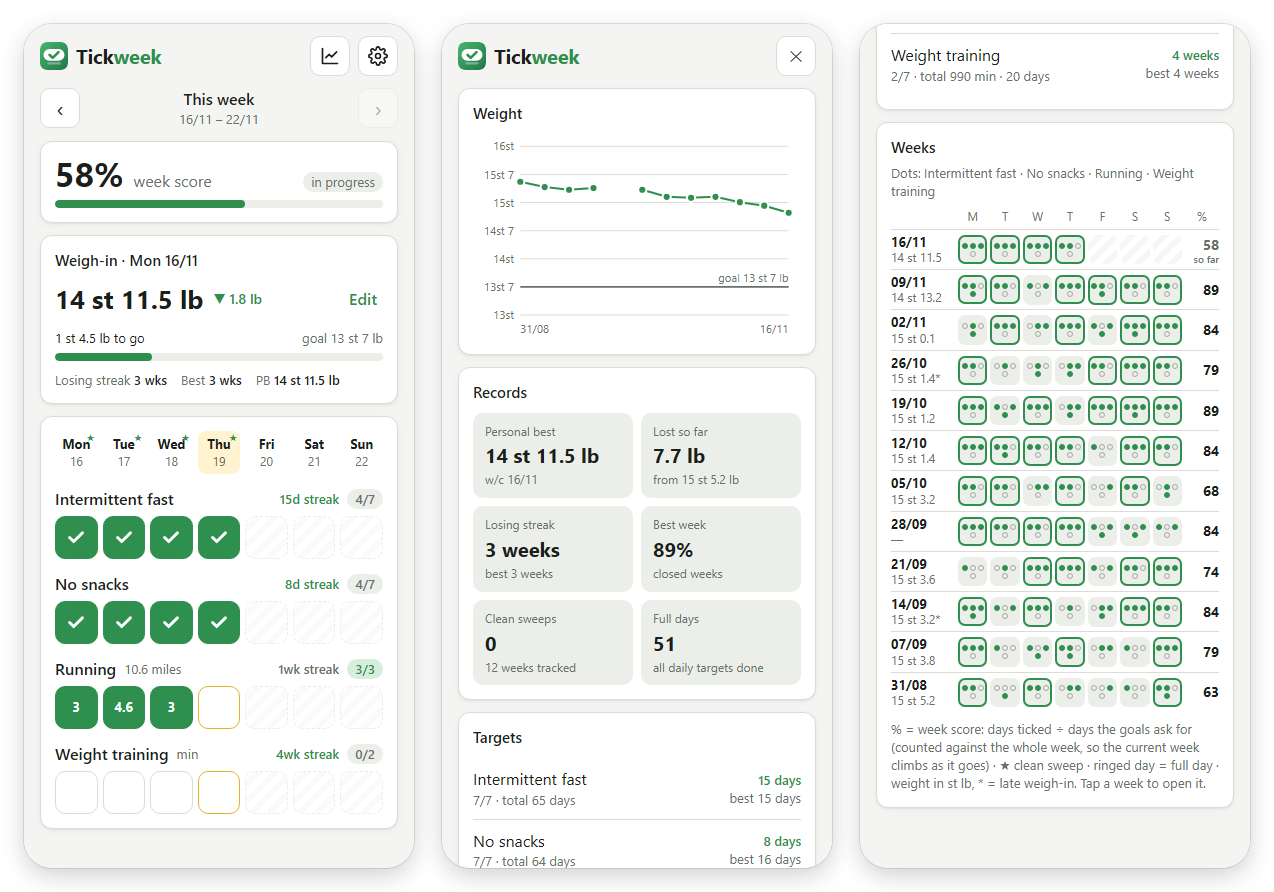
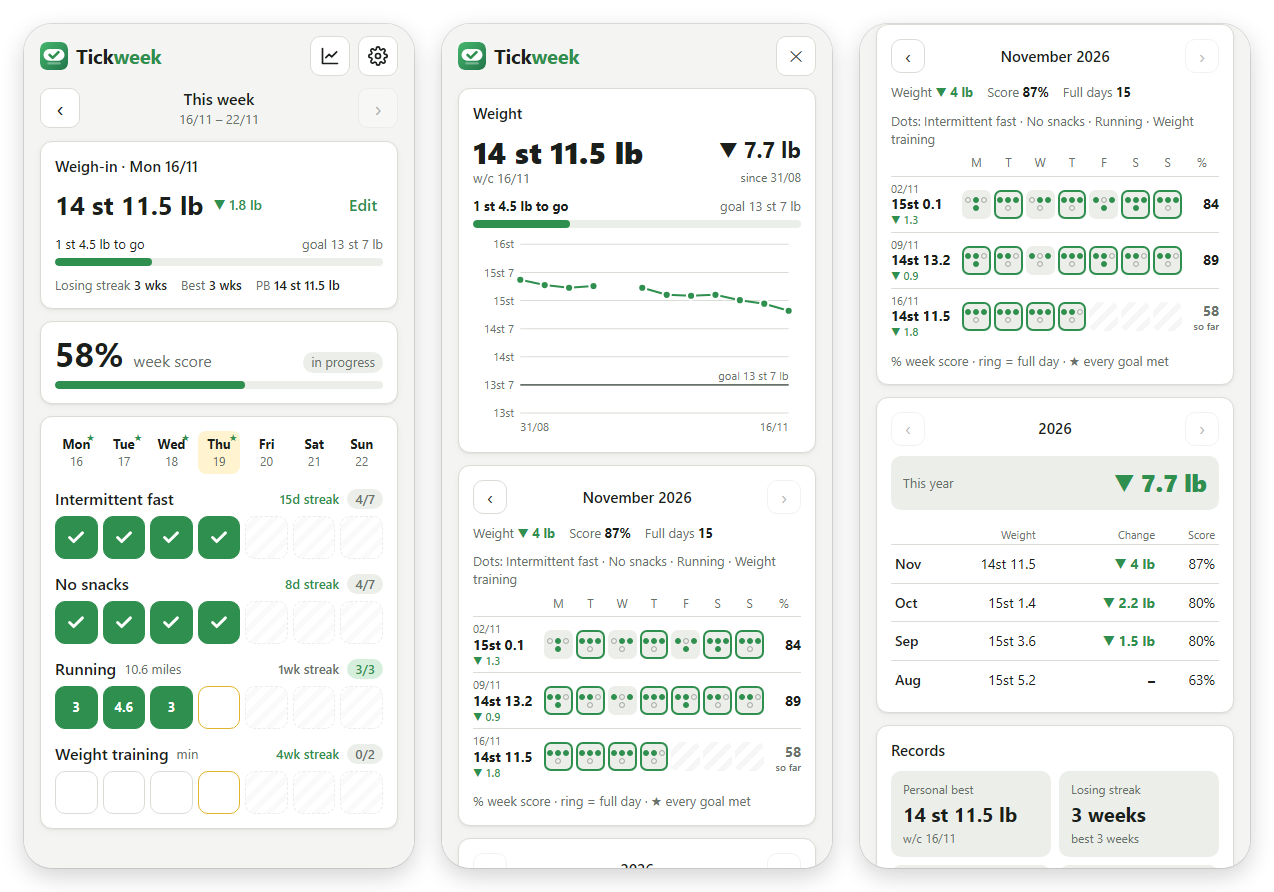
History: weight first, one month at a time, year summary (#7)
- Weight hero (current, change since start, progress to goal) above the chart.
- Week rows (dots per target, full-day rings, score, clean sweep) now show one
  month at a time with a month switcher and a one-line month summary; weigh-in
  bold in each row with its change; short one-line key.
- Year summary: per-month end weight, change and average score.
- This week: weigh-in card before the week score.
- Design spec, changelog and README screenshots updated.

diff --git a/public/js/history.js b/public/js/history.js
@@ -3,16 +3,18 @@ import { KG_PER_LB } from '/js/weight.js';
 
 const $ = (id) => document.getElementById(id);
 const ddmm = (iso) => `${iso.slice(8, 10)}/${iso.slice(5, 7)}`;
-const DOW = ['M', 'T', 'W', 'T', 'F', 'S', 'S'];
 let data;
 
 async function load() {
   try { data = await api('GET', '/api/history'); }
   catch (e) { return toast(e.message); }
+  index();
+  renderHero();
+  renderChart();
+  renderMonth();
+  renderYear();
   renderRecords();
   renderTargets();
-  renderWeeks();
-  renderChart();
   // Content arrives after the browser's own #anchor jump, so redo it once rendered (e.g. /history#weekscard).
   if (location.hash) document.getElementById(location.hash.slice(1))?.scrollIntoView();
 }
@@ -26,16 +28,14 @@ function plural(n, word) { return `${n} ${word}${n === 1 ? '' : 's'}`; }
 function renderRecords() {
   const r = data.records;
   const twoWeighIns = data.weighIns.length >= 2;
-  const lost = twoWeighIns ? r.startKg - r.latestKg : null;
   $('records').replaceChildren(
     tile('Personal best', r.personalBest ? formatStLb(r.personalBest.kg) : null, r.personalBest ? `w/c ${ddmm(r.personalBest.monday)}` : 'no weigh-ins yet'),
-    tile('Lost so far', lost != null ? (lost >= 0 ? formatStLb(lost) : `+${formatStLb(-lost)}`) : null,
-      r.startKg != null ? (twoWeighIns ? `from ${formatStLb(r.startKg)}` : 'needs 2 weigh-ins') : 'needs 2 weigh-ins'),
     tile('Losing streak', twoWeighIns ? plural(data.losing.current, 'week') : null,
       twoWeighIns ? `best ${plural(data.losing.longest, 'week')}` : 'needs 2 weigh-ins'),
     tile('Best week', r.bestScore != null ? `${r.bestScore}%` : null, r.bestScore != null ? 'closed weeks' : 'after week 1'),
-    tile('Clean sweeps', String(r.cleanSweeps), plural(r.weeksTracked, 'week') + ' tracked'),
+    tile('Clean sweeps', String(r.cleanSweeps), 'every goal met'),
     tile('Full days', String(r.fullDays), 'all daily targets done'),
+    tile('Weeks tracked', String(r.weeksTracked), r.weeksTracked ? `since ${ddmm(data.weeks.at(-1).monday)}` : null),
   );
 }
 
@@ -58,34 +58,147 @@ function renderTargets() {
   }) : [h('li', { class: 'muted' }, 'No targets yet.')]));
 }
 
-// ---------- weeks (the paper layout) ----------
-function renderWeeks() {
-  const cur = data.weeks.find((w) => w.current) ?? data.weeks[0];
-  $('legend').textContent = cur?.targets.length ? `Dots: ${cur.targets.map((t) => t.name).join(' · ')}` : '';
+// ---------- date helpers (UTC-midnight ISO dates, like src/dates.js) ----------
+const MONTHS = ['January', 'February', 'March', 'April', 'May', 'June', 'July', 'August', 'September', 'October', 'November', 'December'];
+const addDays = (iso, n) => { const d = new Date(iso + 'T00:00:00Z'); d.setUTCDate(d.getUTCDate() + n); return d.toISOString().slice(0, 10); };
+const mondayOf = (iso) => addDays(iso, -((new Date(iso + 'T00:00:00Z').getUTCDay() + 6) % 7));
+const shiftMonth = (ym, n) => { const [y, m] = ym.split('-').map(Number); return new Date(Date.UTC(y, m - 1 + n, 1)).toISOString().slice(0, 7); };
+const kgDelta = (diff) => (Math.abs(diff) < 0.02 ? '±0' : `${diff < 0 ? '▼' : '▲'} ${formatStLb(Math.abs(diff))}`);
+const deltaClass = (diff) => (Math.abs(diff) < 0.02 ? 'same' : diff < 0 ? 'down' : 'up');
+/** '14st 11.5': compact st/lb for tight columns. */
+const shortStLb = (kg) => formatStLb(kg).replace(' st ', 'st ').replace(' lb', '');
 
-  const head = h('div', { class: 'wrow whead' }, h('div', {}), ...DOW.map((d) => h('div', {}, d)), h('div', {}, '%'));
-  const rows = data.weeks.map((w) => {
+let weekMap = new Map();   // monday → week
+let weighMap = new Map();  // monday → weigh-in
+function index() {
+  weekMap = new Map(data.weeks.map((w) => [w.monday, w]));
+  weighMap = new Map(data.weighIns.map((w) => [w.monday_date, w]));
+}
+/** Last weigh-in strictly before a date. */
+const lastWeighInBefore = (iso) => [...data.weighIns].reverse().find((w) => w.monday_date < iso) ?? null;
+
+/** Weight change over a period: last weigh-in in it vs the last one before it (or its first). */
+function periodStats(inPeriod, startIso) {
+  const ws = data.weighIns.filter((w) => inPeriod(w.monday_date));
+  const base = lastWeighInBefore(startIso) ?? ws[0];
+  const change = ws.length && base && base !== ws.at(-1) ? ws.at(-1).kg - base.kg : null;
+  const closed = data.weeks.filter((w) => inPeriod(w.monday) && !w.current && w.score != null);
+  const score = closed.length ? Math.round(closed.reduce((a, w) => a + w.score, 0) / closed.length) : null;
+  const fullDays = data.weeks.flatMap((w) => w.fullDays).filter(inPeriod).length;
+  return { endKg: ws.at(-1)?.kg ?? null, change, score, fullDays };
+}
+
+// ---------- weight hero ----------
+function renderHero() {
+  const pts = data.weighIns;
+  if (!pts.length) return $('hero').replaceChildren();
+  const latest = pts.at(-1), first = pts[0];
+  const lost = latest.kg - first.kg;
+  const kids = [h('div', { class: 'hero' },
+    h('div', {},
+      h('div', { class: 'hero-kg' }, formatStLb(latest.kg)),
+      h('div', { class: 'small muted' }, `w/c ${ddmm(latest.monday_date)}`)),
+    pts.length > 1 ? h('div', { class: `hero-lost ${deltaClass(lost)}` },
+      h('b', {}, kgDelta(lost)),
+      h('span', {}, `since ${ddmm(first.monday_date)}`)) : null,
+  )];
+  if (data.goalKg != null) {
+    const toGo = Math.max(0, latest.kg - data.goalKg);
+    const span = first.kg - data.goalKg;
+    const pct = span > 0 ? Math.min(100, Math.max(0, ((first.kg - latest.kg) / span) * 100)) : toGo === 0 ? 100 : 0;
+    kids.push(h('div', { style: 'margin:10px 0 4px' },
+      h('div', { class: 'row small', style: 'margin-bottom:5px' },
+        h('span', {}, toGo < 0.02 ? 'Goal reached!' : h('b', {}, `${formatStLb(toGo)} to go`)),
+        h('span', { class: 'muted', style: 'margin-left:auto' }, `goal ${formatStLb(data.goalKg)}`)),
+      h('div', { class: 'bar' }, h('i', { style: `width:${pct}%` }))));
+  }
+  $('hero').replaceChildren(...kids);
+}
+
+// ---------- month calendar ----------
+let month = null; // 'YYYY-MM'
+const firstMonth = () => (data.weeks.length ? data.weeks.at(-1).monday.slice(0, 7) : data.today.slice(0, 7));
+
+function renderMonth() {
+  month ??= data.today.slice(0, 7);
+  const [y, m] = month.split('-').map(Number);
+  $('monthlabel').textContent = `${MONTHS[m - 1]} ${y}`;
+  $('mprev').disabled = month <= firstMonth();
+  $('mnext').disabled = month >= data.today.slice(0, 7);
+
+  // A week belongs to the month its Monday is in; oldest first, like the paper sheet.
+  const weeks = data.weeks.filter((w) => w.monday.slice(0, 7) === month).reverse();
+  const cur = data.weeks.find((w) => w.current) ?? data.weeks[0];
+
+  const st = periodStats((iso) => iso.slice(0, 7) === month, month + '-01');
+  const summary = h('div', { class: 'msum' },
+    h('span', {}, 'Weight ', st.change != null ? h('b', { class: `delta ${deltaClass(st.change)}` }, kgDelta(st.change)) : h('b', {}, '–')),
+    h('span', {}, 'Score ', h('b', {}, st.score != null ? `${st.score}%` : '–')),
+    h('span', {}, 'Full days ', h('b', {}, String(st.fullDays))));
+  const dots = h('div', { class: 'small muted', style: 'margin-bottom:6px' },
+    cur?.targets.length ? `Dots: ${cur.targets.map((t) => t.name).join(' · ')}` : '');
+
+  const head = h('div', { class: 'wrow whead' }, h('div', {}), ...['M', 'T', 'W', 'T', 'F', 'S', 'S'].map((d) => h('div', {}, d)), h('div', {}, '%'));
+  const rows = weeks.map((w) => {
     const full = new Set(w.fullDays);
     const cells = w.days.map((d) => {
       const future = d > data.today;
-      const dots = w.targets.map((t) => h('i', { class: (w.entries[t.id]?.[d] > 0 ? 'on' : '') }));
-      const doneNames = w.targets.filter((t) => w.entries[t.id]?.[d] > 0).map((t) => t.name);
+      const done = w.targets.filter((t) => w.entries[t.id]?.[d] > 0);
       return h('div', {
         class: 'wcell' + (full.has(d) ? ' full' : '') + (future ? ' future' : ''),
-        title: `${ddmm(d)}: ${future ? 'not yet' : doneNames.length ? doneNames.join(', ') : 'nothing ticked'}`,
-      }, future ? null : dots);
+        title: `${ddmm(d)}: ${future ? 'not yet' : done.length ? done.map((t) => t.name).join(', ') : 'nothing ticked'}`,
+      }, future ? null : w.targets.map((t) => h('i', { class: w.entries[t.id]?.[d] > 0 ? 'on' : '' })));
     });
     const wi = w.weighIn;
+    const prev = wi ? weighMap.get(addDays(w.monday, -7)) : null;
+    const diff = wi && prev ? wi.kg - prev.kg : null;
     return h('a', { class: 'wrow', href: w.current ? '/' : `/?week=${w.monday}` },
-      h('div', { class: 'wdate' }, h('b', {}, w.ddmm), h('span', {}, wi ? formatStLb(wi.kg).replace(' lb', '') : '—', wi?.late ? '*' : '')),
+      h('div', { class: 'wdate' },
+        h('span', {}, w.ddmm),
+        h('b', {}, wi ? shortStLb(wi.kg) : '—', wi?.late ? '*' : ''),
+        diff != null ? h('span', { class: `delta ${deltaClass(diff)}` }, kgDelta(diff).replace(' lb', '')) : null),
       ...cells,
-      h('div', { class: 'wscore' + (w.current ? ' live' : ''), title: w.current ? 'Week score so far (week in progress)' : 'Week score' },
+      h('div', { class: 'wscore' + (w.current ? ' live' : '') },
         w.score != null ? `${w.score}` : '–',
         w.cleanSweep ? h('span', { class: 'sweep', title: 'Clean sweep' }, '★') : w.current ? h('span', { class: 'sofar' }, 'so far') : null),
     );
   });
-  $('weeks').replaceChildren(head, ...rows,
-    h('div', { class: 'small muted', style: 'margin-top:8px' }, '% = week score: days ticked ÷ days the goals ask for (counted against the whole week, so the current week climbs as it goes) · ★ clean sweep · ringed day = full day · weight in st lb, * = late weigh-in. Tap a week to open it.'));
+  const key = h('div', { class: 'small muted', style: 'margin-top:8px' }, '% week score · ring = full day · ★ every goal met');
+
+  $('month').replaceChildren(summary, dots, ...(rows.length ? [head, ...rows, key] : [h('div', { class: 'muted small' }, 'Nothing tracked this month.')]));
+}
+
+// ---------- year ----------
+let year = null;
+function renderYear() {
+  year ??= Number(data.today.slice(0, 4));
+  const thisMonth = data.today.slice(0, 7);
+  $('yearlabel').textContent = String(year);
+  $('yprev').disabled = year <= Number(firstMonth().slice(0, 4));
+  $('ynext').disabled = year >= Number(data.today.slice(0, 4));
+
+  const rows = [];
+  for (let m = 12; m >= 1; m--) {
+    const ym = `${year}-${String(m).padStart(2, '0')}`;
+    if (ym > thisMonth || ym < firstMonth()) continue;
+    const st = periodStats((iso) => iso.slice(0, 7) === ym, ym + '-01');
+    rows.push(h('button', {
+      class: 'yrow', type: 'button', title: `Show ${MONTHS[m - 1]}`,
+      onclick: () => { month = ym; renderMonth(); $('monthcard').scrollIntoView({ behavior: 'smooth' }); },
+    },
+      h('span', { class: 'ym' }, MONTHS[m - 1].slice(0, 3)),
+      h('span', { class: 'ykg' }, st.endKg != null ? shortStLb(st.endKg) : '—'),
+      h('span', { class: `ych delta ${st.change != null ? deltaClass(st.change) : ''}` }, st.change != null ? kgDelta(st.change) : '–'),
+      h('span', { class: 'ysc' }, st.score != null ? `${st.score}%` : '–')));
+  }
+
+  const yr = String(year);
+  const yst = periodStats((iso) => iso.startsWith(yr), `${yr}-01-01`);
+  const top = h('div', { class: 'ytotal' },
+    h('div', { class: 'tl' }, 'This year'),
+    h('div', { class: `ybig delta ${yst.change != null ? deltaClass(yst.change) : ''}` }, yst.change != null ? kgDelta(yst.change) : '–'));
+  const head = h('div', { class: 'yrow yhead' }, h('span', { class: 'ym' }, ''), h('span', { class: 'ykg' }, 'Weight'), h('span', { class: 'ych' }, 'Change'), h('span', { class: 'ysc' }, 'Score'));
+  $('year').replaceChildren(top, ...(rows.length ? [head, ...rows] : [h('div', { class: 'muted small' }, 'Nothing tracked this year.')]));
 }
 
 // ---------- weight chart (inline SVG, single series, goal reference line, crosshair tooltip) ----------
@@ -187,6 +300,11 @@ function renderChart() {
     else if (e.key === 'ArrowRight') show(Math.min(pts.length - 1, (idx ?? -1) + 1));
   });
 }
+
+$('mprev').addEventListener('click', () => { month = shiftMonth(month, -1); renderMonth(); });
+$('mnext').addEventListener('click', () => { month = shiftMonth(month, 1); renderMonth(); });
+$('yprev').addEventListener('click', () => { year -= 1; renderYear(); });
+$('ynext').addEventListener('click', () => { year += 1; renderYear(); });
 
 let resizeT;
 window.addEventListener('resize', () => { clearTimeout(resizeT); resizeT = setTimeout(() => data && renderChart(), 150); });

diff --git a/public/style.css b/public/style.css
@@ -182,13 +182,29 @@ dialog.pad::backdrop { background: rgba(0,0,0,.45); }
 .tile .tv { font-size: 20px; font-weight: 700; font-variant-numeric: tabular-nums; margin: 2px 0; }
 .tile .ts { font-size: 12px; color: var(--muted); }
 
-/* ---------- history: weeks grid ---------- */
-.wrow { display: grid; grid-template-columns: 64px repeat(7, minmax(0, 1fr)) 34px; gap: 3px; align-items: center;
-  padding: 4px 0; border-top: 1px solid var(--line); text-decoration: none; color: inherit; }
+/* ---------- history: weight hero ---------- */
+.hero { display: flex; align-items: flex-end; gap: 12px; margin-bottom: 4px; }
+.hero-kg { font-size: 30px; font-weight: 800; line-height: 1.1; font-variant-numeric: tabular-nums; }
+.hero-lost { margin-left: auto; text-align: right; }
+.hero-lost b { display: block; font-size: 22px; font-variant-numeric: tabular-nums; }
+.hero-lost span { font-size: 12px; color: var(--muted); }
+.delta.same { color: var(--muted); }
+
+/* ---------- history: month (week rows) ---------- */
+.cardnav { display: flex; align-items: center; gap: 8px; margin-bottom: 10px; }
+.cardnav h2 { flex: 1; text-align: center; margin: 0; }
+.cardnav .iconbtn { width: 34px; height: 34px; font-size: 20px; line-height: 1; padding-bottom: 2px; }
+.msum { display: flex; gap: 14px; flex-wrap: wrap; font-size: 13px; color: var(--muted); margin-bottom: 10px; }
+.msum b { color: var(--text); }
+.msum b.delta.down { color: var(--accent); }
+.msum b.delta.up { color: var(--warn); }
+.wrow { display: grid; grid-template-columns: 68px repeat(7, minmax(0, 1fr)) 34px; gap: 3px; align-items: center;
+  padding: 5px 0; border-top: 1px solid var(--line); text-decoration: none; color: inherit; }
 .wrow.whead { border-top: 0; font-size: 12px; color: var(--muted); text-align: center; padding-top: 0; }
-.wdate { font-size: 12px; line-height: 1.25; font-variant-numeric: tabular-nums; }
-.wdate b { display: block; font-size: 13px; }
-.wdate span { color: var(--muted); white-space: nowrap; }
+.wdate { font-size: 11px; line-height: 1.25; font-variant-numeric: tabular-nums; white-space: nowrap; }
+.wdate span { display: block; color: var(--muted); }
+.wdate b { display: block; font-size: 14px; }
+.wdate .delta { font-size: 11px; font-weight: 600; }
 .wcell { aspect-ratio: 1 / 1; border-radius: 7px; background: var(--surface-2); display: flex; flex-wrap: wrap;
   align-content: center; justify-content: center; gap: 2px; padding: 3px; min-width: 0; }
 .wcell i { width: 6px; height: 6px; border-radius: 50%; border: 1.5px solid color-mix(in srgb, var(--muted) 55%, transparent); }
@@ -197,6 +213,24 @@ dialog.pad::backdrop { background: rgba(0,0,0,.45); }
 .wcell.future { background: var(--locked); }
 .wscore { text-align: right; font-weight: 700; font-size: 14px; font-variant-numeric: tabular-nums; }
 .wscore .sweep { display: block; color: var(--accent); font-size: 12px; line-height: 1; }
+.wscore.live { color: var(--muted); }
+.wscore .sofar { display: block; font-size: 10px; font-weight: 500; line-height: 1; white-space: nowrap; }
+
+/* ---------- history: year ---------- */
+.ytotal { display: flex; align-items: center; justify-content: space-between; background: var(--surface-2); border-radius: 10px; padding: 10px 12px; margin-bottom: 8px; }
+.ytotal .tl { font-size: 13px; color: var(--muted); }
+.ybig { font-size: 24px; font-weight: 800; font-variant-numeric: tabular-nums; }
+.ybig.down { color: var(--accent); }
+.ybig.up { color: var(--warn); }
+.yrow { display: grid; grid-template-columns: 40px 1fr 1.2fr 52px; gap: 8px; align-items: center; width: 100%;
+  padding: 9px 4px; border: 0; border-top: 1px solid var(--line); background: none; text-align: right; cursor: pointer;
+  font-variant-numeric: tabular-nums; font-size: 14px; color: var(--text); }
+.yrow:hover { background: var(--surface-2); }
+.yrow .ym { text-align: left; font-weight: 600; }
+.yrow .ych { font-weight: 700; }
+.yhead { border-top: 0; cursor: default; font-size: 11px; color: var(--muted); padding-bottom: 2px; }
+.yhead:hover { background: none; }
+.yhead .ych { font-weight: 400; }
 
 /* ---------- history: weight chart ---------- */
 .chart { position: relative; }
@@ -214,5 +248,3 @@ dialog.pad::backdrop { background: rgba(0,0,0,.45); }
   box-shadow: var(--shadow); border-radius: 8px; padding: 6px 9px; font-size: 12px; white-space: nowrap; }
 .chart .tip b { display: block; font-size: 15px; }
 .chart .tip span { display: block; color: var(--muted); }
-.wscore.live { color: var(--muted); }
-.wscore .sofar { display: block; font-size: 10px; font-weight: 500; line-height: 1; white-space: nowrap; }

diff --git a/public/history.html b/public/history.html
@@ -23,7 +23,26 @@
 
   <section class="card">
     <h2>Weight</h2>
+    <div id="hero"></div>
     <div id="chart" class="chart"></div>
+  </section>
+
+  <section class="card" id="monthcard">
+    <div class="cardnav">
+      <button class="iconbtn" id="mprev" aria-label="Previous month">‹</button>
+      <h2 id="monthlabel"></h2>
+      <button class="iconbtn" id="mnext" aria-label="Next month">›</button>
+    </div>
+    <div id="month"></div>
+  </section>
+
+  <section class="card" id="yearcard">
+    <div class="cardnav">
+      <button class="iconbtn" id="yprev" aria-label="Previous year">‹</button>
+      <h2 id="yearlabel"></h2>
+      <button class="iconbtn" id="ynext" aria-label="Next year">›</button>
+    </div>
+    <div id="year"></div>
   </section>
 
   <section class="card">
@@ -34,12 +53,6 @@
   <section class="card">
     <h2>Targets</h2>
     <ul class="tlist" id="targetstats"></ul>
-  </section>
-
-  <section class="card" id="weekscard">
-    <h2>Weeks</h2>
-    <div class="small muted" id="legend" style="margin:-4px 0 8px"></div>
-    <div id="weeks"></div>
   </section>
 </main>
 <script type="module" src="/js/history.js"></script>

diff --git a/public/index.html b/public/index.html
@@ -33,8 +33,8 @@
   </nav>
 
   <div id="notices"></div>
-  <section class="card" id="scorecard"></section>
   <section class="card" id="weigh"></section>
+  <section class="card" id="scorecard"></section>
   <section class="card" id="gridcard"></section>
 </main>
 

diff --git a/docs/changelogs/2026-11.md b/docs/changelogs/2026-11.md
@@ -1,5 +1,24 @@
 # Changelog: November 2026
 
+## 16 Nov 2026: v0.1.0 released; History redesign (weight first)
+
+- Tagged **v0.1.0**; the image Action built and pushed `ghcr.io/ajyounguk/tickweek:0.1.0` (+ `0.1`). The package is
+  public (anonymous pull works). Dependabot opened 6 PRs (Actions majors, Node 26 base image): not merged yet.
+- History reworked (design.md updated): weight hero (current, change since start, to-go bar) above the chart; the
+  week rows (dots per target, rings, score, ★) now show **one month at a time** with a ‹ month › switcher and a
+  one-line month summary (weight change / score / full days); weigh-in is bold in each row with its change; the long
+  "% = …" legend is now one short line. New **year summary** (per month: end weight, change, average score; year
+  change on top). Records: "Lost so far" moved into the hero, "Weeks tracked" added. (A heat-map calendar was tried
+  first and dropped: the dot rows were the part worth keeping.)
+- This week: the weigh-in card now comes before the week score.
+- README screenshots re-rendered.
+
+## 16 Nov 2026: public repo
+
+- Public GitHub repo created; first commit pushed (code, docs, demo screenshots, workflows: tests on push to `main`,
+  GHCR image on `v*` tags without `:latest`, Dependabot for npm/Actions/Docker). MIT license. Commits use the GitHub
+  no-reply email (repo-local git config).
+
 ## 16 Nov 2026: M3 polish: empty states, light mode, README screenshots
 
 - Empty states: tiles say what they need ("needs 2 weigh-ins", "after week 1") instead of 0s; "no streak yet" per

diff --git a/docs/design.md b/docs/design.md
@@ -64,9 +64,12 @@ The current week's score and streaks are "in progress" until the week closes.
 1. **This week** (main screen, phone-first): rows = targets, columns = Mon–Sun, big tap cells, today highlighted.
    Tick targets toggle on tap; number targets open a number pad (clear = 0 = not done). Shows the week score, the
    N/7 progress per target, the weigh-in box on Monday, and the active streaks.
-2. **History**: the paper layout: one row per week (Monday date + weight), each day's cell showing a mini dot per
-   target, the week score and clean-sweep marker per row. Plus a **weight chart** (weekly weigh-ins, goal line) and
-   the records (personal best, longest streaks, totals).
+2. **History** (weight first): current weight, change since the first weigh-in and progress to goal, above the
+   weight chart. Then **one month at a time** (‹ month › switcher): a one-line month summary (weight change, score,
+   full days) and that month's weeks in the paper layout: one row per week (Monday date, weigh-in in bold + change),
+   each day's cell showing a mini dot per target (ringed = full day), the week score and a ★ for a clean sweep; tap a
+   week to open it. Then a **year summary** (per month: weight at month end, change, average score). Records and
+   per-target streaks/totals below. *(Revised 16 Nov 2026: month switcher instead of one long list of weeks.)*
 3. **Settings**: targets (add/edit/reorder/retire, kind, unit, N/7), goal weight, and the corrections switch.
 
 ## Edit window
